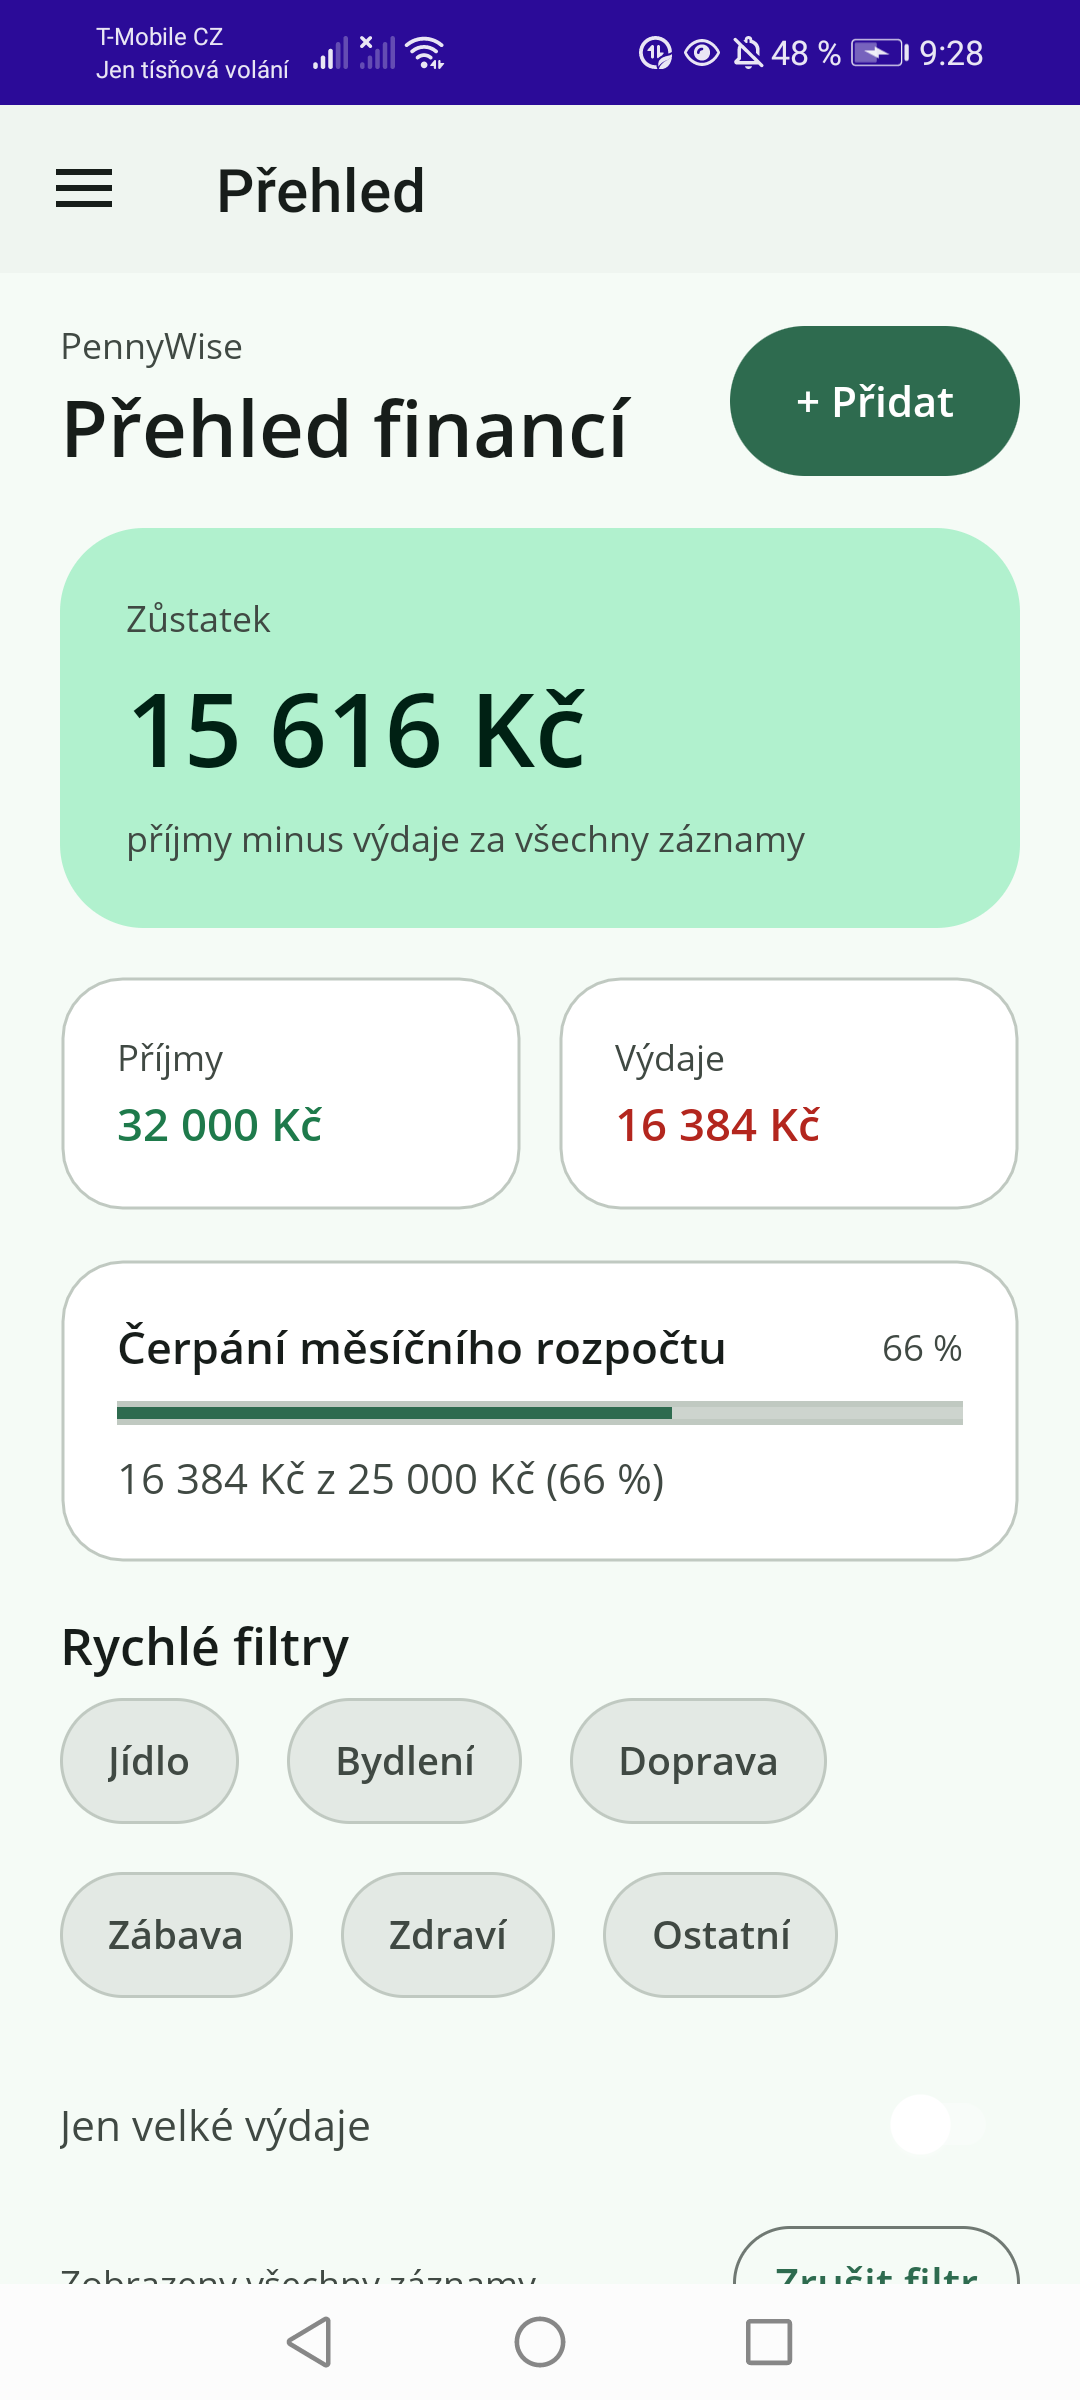
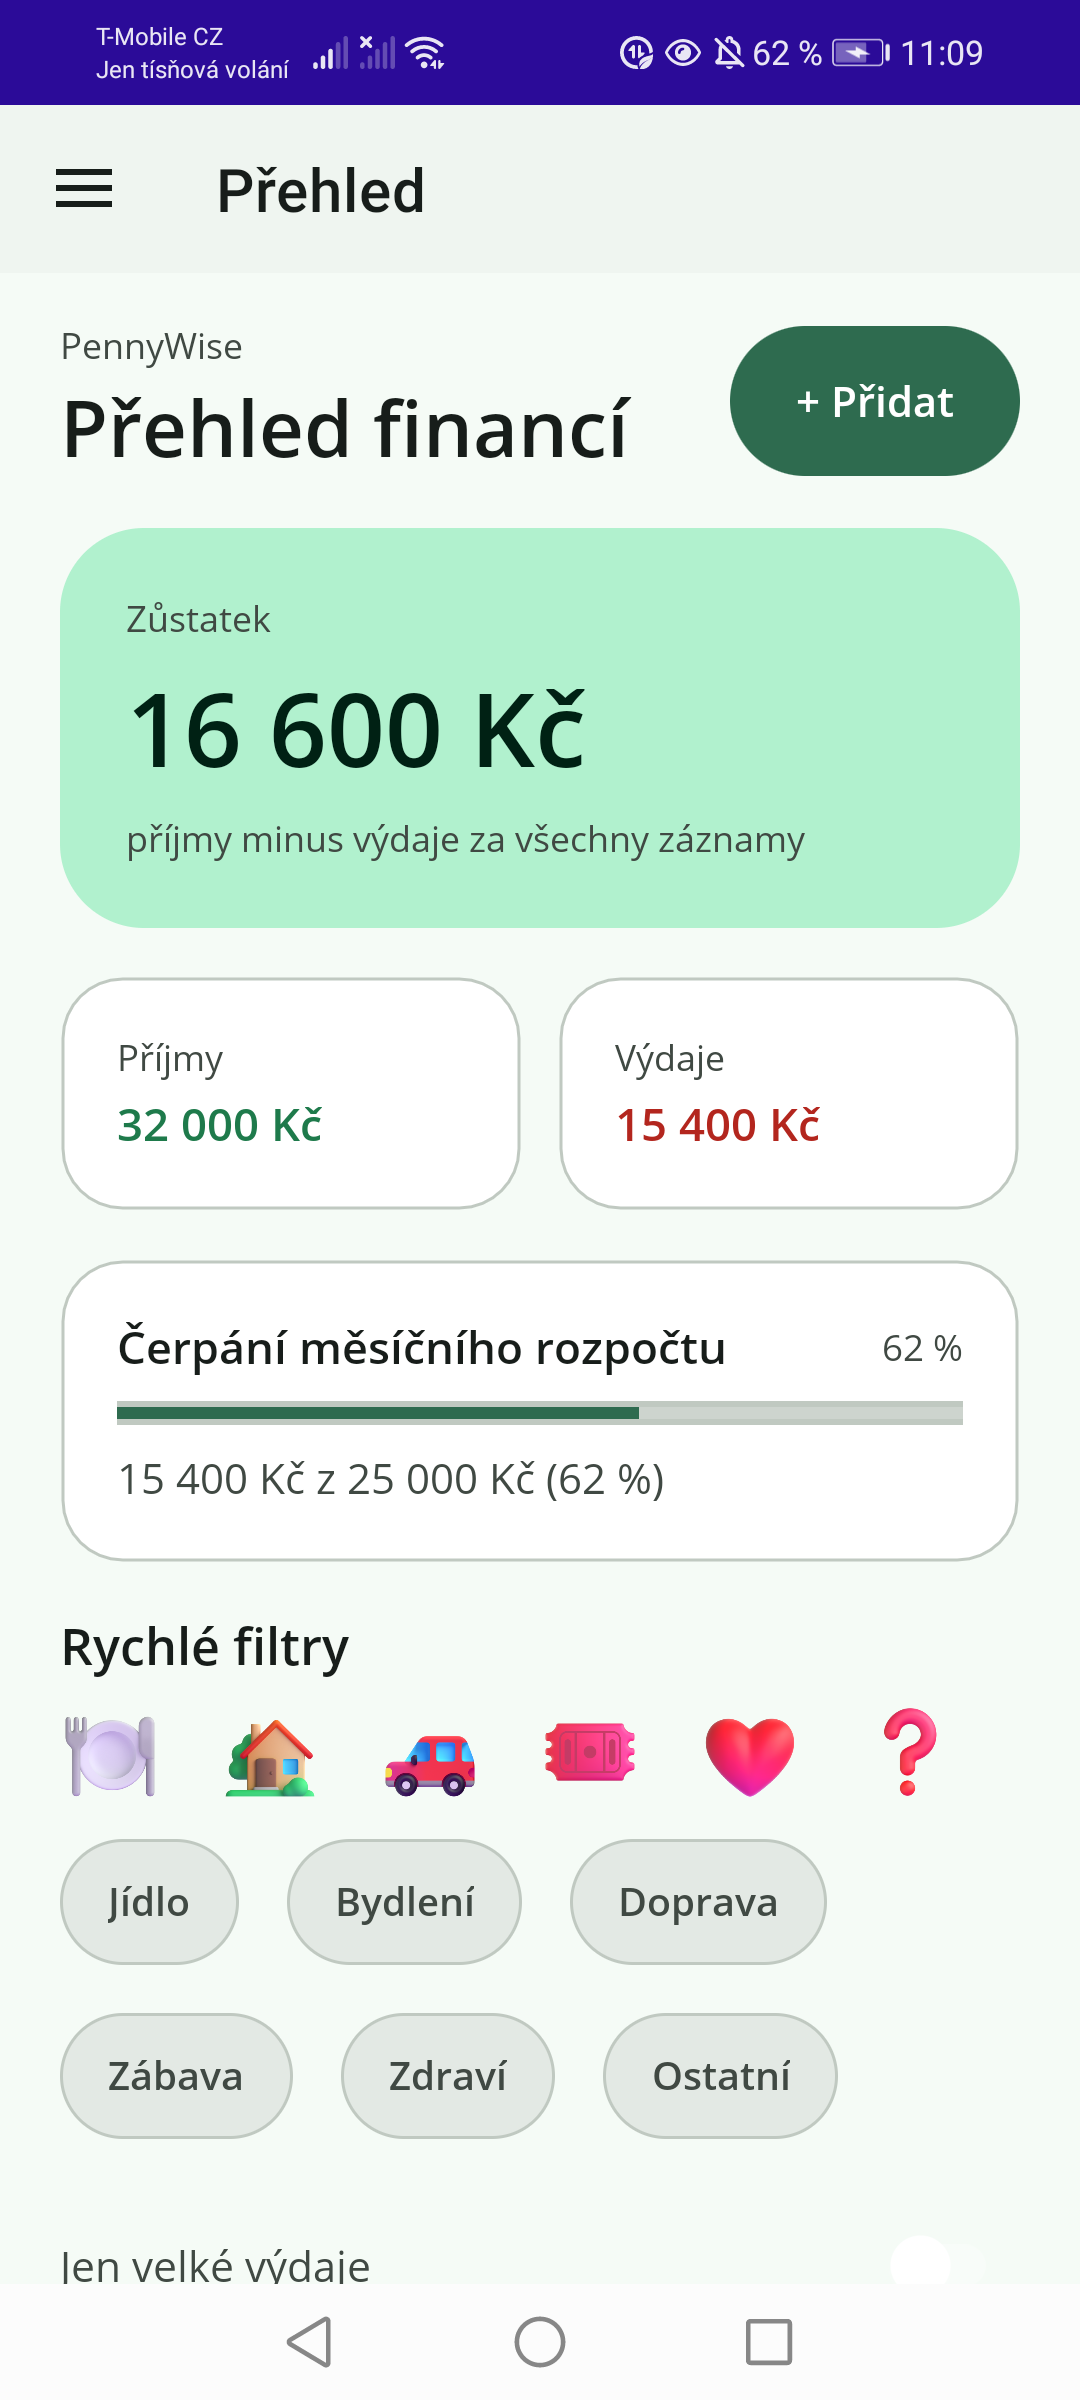
Add category illustrations to dashboard and rename settings page to match assignment

diff --git a/PennyWise/Views/DashboardPage.xaml b/PennyWise/Views/DashboardPage.xaml
@@ -77,6 +77,15 @@
                 <VerticalStackLayout Spacing="10">
                     <Label Text="Rychlé filtry" Style="{StaticResource SectionTitle}" />
 
+                    <!-- Category artwork also appears here, so the illustrations are
+                         the visual anchor for the filters. -->
+                    <FlexLayout
+                        x:Name="CategoryArtFlex"
+                        Direction="Row"
+                        Wrap="Wrap"
+                        JustifyContent="Start"
+                        AlignItems="Center" />
+
                     <FlexLayout
                         x:Name="FilterFlex"
                         Direction="Row"
@@ -118,17 +127,15 @@
                             <Border Style="{StaticResource CardBorder}" Padding="14">
                                 <Grid ColumnDefinitions="Auto,*,Auto" ColumnSpacing="12">
                                     <Border
-                                        Style="{StaticResource BadgeBorder}"
-                                        WidthRequest="42"
-                                        HeightRequest="42"
-                                        Padding="0"
-                                        VerticalOptions="Center"
-                                        BackgroundColor="{StaticResource SurfaceContainerHigh}">
-                                        <Label
-                                            Text="{Binding Initials}"
-                                            Style="{StaticResource BadgeLabel}"
-                                            TextColor="{StaticResource OnSurface}"
-                                            FontSize="14"
+                                        Style="{StaticResource IconTileBorder}"
+                                        WidthRequest="44"
+                                        HeightRequest="44"
+                                        VerticalOptions="Center">
+                                        <Image
+                                            Source="{Binding IconSource}"
+                                            Aspect="AspectFit"
+                                            WidthRequest="34"
+                                            HeightRequest="34"
                                             HorizontalOptions="Center"
                                             VerticalOptions="Center" />
                                     </Border>
@@ -166,10 +173,18 @@
                 <Border
                     Style="{StaticResource MutedBackground}"
                     IsVisible="{Binding HasTransactions, Converter={StaticResource InverseBool}}">
-                    <Label
-                        Text="Pro tento filtr nejsou žádné záznamy."
-                        Style="{StaticResource BodyMutedLabel}"
-                        HorizontalTextAlignment="Center" />
+                    <VerticalStackLayout Spacing="10">
+                        <Image
+                            Source="red_question_mark_3d"
+                            Aspect="AspectFit"
+                            WidthRequest="72"
+                            HeightRequest="72"
+                            HorizontalOptions="Center" />
+                        <Label
+                            Text="Pro tento filtr nejsou žádné záznamy."
+                            Style="{StaticResource BodyMutedLabel}"
+                            HorizontalTextAlignment="Center" />
+                    </VerticalStackLayout>
                 </Border>
 
             </VerticalStackLayout>

diff --git a/PennyWise/Resources/Styles/Styles.xaml b/PennyWise/Resources/Styles/Styles.xaml
@@ -283,6 +283,14 @@
         <Setter Property="Padding" Value="14,2" />
     </Style>
 
+    <Style x:Key="IconTileBorder" TargetType="Border">
+        <Setter Property="BackgroundColor" Value="{DynamicResource SurfaceContainerHigh}" />
+        <Setter Property="Stroke" Value="Transparent" />
+        <Setter Property="StrokeThickness" Value="0" />
+        <Setter Property="StrokeShape" Value="RoundRectangle 14" />
+        <Setter Property="Padding" Value="4" />
+    </Style>
+
     <Style x:Key="BadgeBorder" TargetType="Border">
         <Setter Property="BackgroundColor" Value="{DynamicResource SecondaryContainer}" />
         <Setter Property="Stroke" Value="Transparent" />

diff --git a/PennyWise/Views/Settings.xaml b/PennyWise/Views/Settings.xaml
@@ -1,6 +1,6 @@
 <?xml version="1.0" encoding="utf-8" ?>
 <ContentPage
-    x:Class="PennyWise.Views.SettingsPage"
+    x:Class="PennyWise.Views.Settings"
     xmlns="http://schemas.microsoft.com/dotnet/2021/maui"
     xmlns:x="http://schemas.microsoft.com/winfx/2009/xaml"
     xmlns:vm="clr-namespace:PennyWise.ViewModels"

diff --git a/PennyWise/AppShell.xaml b/PennyWise/AppShell.xaml
@@ -33,7 +33,7 @@
         <ShellContent
             Title="Nastavení"
             Route="settings"
-            ContentTemplate="{DataTemplate views:SettingsPage}" />
+            ContentTemplate="{DataTemplate views:Settings}" />
     </FlyoutItem>
 
     <FlyoutItem Title="JSON data" Route="json">

diff --git a/PennyWise/Services/CategoryArt.cs b/PennyWise/Services/CategoryArt.cs
@@ -1,0 +1,39 @@
+using PennyWise.Models;
+
+namespace PennyWise.Services;
+
+/// <summary>
+/// Maps a category to its illustration in Resources/Images. MAUI lowercases and
+/// sanitises resource names, so the identifiers used here are the same as the
+/// file names without the extension.
+/// </summary>
+public static class CategoryArt
+{
+    public const string Food = "fork_and_knife_with_plate_3d";
+    public const string Housing = "house_with_garden_3d";
+    public const string Transport = "automobile_3d";
+    public const string Fun = "admission_tickets_3d";
+    public const string Health = "red_heart_3d";
+    public const string Income = "money_bag_3d";
+    public const string Other = "red_question_mark_3d";
+
+    public static string For(Category category) => category switch
+    {
+        Category.Food => Food,
+        Category.Housing => Housing,
+        Category.Transport => Transport,
+        Category.Fun => Fun,
+        Category.Health => Health,
+        Category.Income => Income,
+        _ => Other,
+    };
+
+    /// <summary>Artwork for a Czech category label (used by the filter chips).</summary>
+    public static string ForLabel(string label)
+    {
+        var category = Enum.GetValues<Category>()
+            .FirstOrDefault(c => c.ToCzechLabel() == label);
+
+        return For(category);
+    }
+}

diff --git a/PennyWise/Views/DashboardPage.xaml.cs b/PennyWise/Views/DashboardPage.xaml.cs
@@ -12,6 +12,7 @@ public partial class DashboardPage : ContentPage
         InitializeComponent();
         BindingContext = _viewModel = viewModel;
 
+        BuildCategoryArt();
         BuildFilterChips();
         _viewModel.PropertyChanged += OnViewModelPropertyChanged;
     }
@@ -21,6 +22,26 @@ public partial class DashboardPage : ContentPage
         base.OnAppearing();
         await _viewModel.LoadAsync();
         UpdateChipStates();
+    }
+
+    /// <summary>Category illustrations shown above the filter chips.</summary>
+    private void BuildCategoryArt()
+    {
+        foreach (var category in _viewModel.Categories)
+        {
+            var image = new Image
+            {
+                Source = Services.CategoryArt.ForLabel(category),
+                Aspect = Aspect.AspectFit,
+                WidthRequest = 34,
+                HeightRequest = 34,
+                Margin = new Thickness(0, 0, 10, 6),
+                VerticalOptions = LayoutOptions.Center,
+            };
+
+            SemanticProperties.SetDescription(image, category);
+            CategoryArtFlex.Add(image);
+        }
     }
 
     /// <summary>

diff --git a/PennyWise/MauiProgram.cs b/PennyWise/MauiProgram.cs
@@ -37,7 +37,7 @@ public static class MauiProgram
         builder.Services.AddSingleton<DashboardPage>();
         builder.Services.AddTransient<AddTransactionPage>();
         builder.Services.AddTransient<WebPage>();
-        builder.Services.AddTransient<SettingsPage>();
+        builder.Services.AddTransient<Settings>();
         builder.Services.AddTransient<JsonPage>();
         builder.Services.AddSingleton<AppShell>();
 

diff --git a/PennyWise/Views/Settings.xaml.cs b/PennyWise/Views/Settings.xaml.cs
@@ -2,11 +2,11 @@ using PennyWise.ViewModels;
 
 namespace PennyWise.Views;
 
-public partial class SettingsPage : ContentPage
+public partial class Settings : ContentPage
 {
     private readonly SettingsViewModel _viewModel;
 
-    public SettingsPage(SettingsViewModel viewModel)
+    public Settings(SettingsViewModel viewModel)
     {
         InitializeComponent();
         BindingContext = _viewModel = viewModel;

diff --git a/PennyWise/ViewModels/TransactionItem.cs b/PennyWise/ViewModels/TransactionItem.cs
@@ -25,6 +25,9 @@ public class TransactionItem
 
     public string Initials { get; }
 
+    /// <summary>Category artwork shown in the list (MAUI resource name without extension).</summary>
+    public string IconSource => CategoryArt.For(Source.Category);
+
     public string CategoryLabel => Source.CategoryLabel;
 
     public string DateLabel => Source.DateLabel;

diff --git a/README.md b/README.md
@@ -1,7 +1,7 @@
 # PennyWise – správa osobních financí
 
-- **Autor:** `[JMÉNO PŘÍJMENÍ]`
-- **Třída:** `[TŘÍDA]`
+- **Autor:** Andrea Semančinová
+- **Třída:** ITB4
 - **Téma:** Správa osobních financí / transakce
 - **Platforma:** .NET 9, .NET MAUI, cíl Android (testováno na Androidu 10, arm64;
   `SupportedOSPlatformVersion` je 21, takže jde nainstalovat i na starší zařízení)
@@ -39,7 +39,7 @@ obrazovka zobrazuje obsah všech JSON souborů, které aplikace používá.
      se zruší (`e.Cancel = true`) a uživatel dostane `DisplayAlert`
    - tlačítko **Ověřit blokaci** zkusí otevřít `https://www.google.com/` a
      demonstruje blokaci; při chybě načtení se zobrazí offline hláška + „Zkusit znovu“
-4. **Nastavení** (`Views/SettingsPage.xaml`)
+4. **Nastavení** (`Views/Settings.xaml`)
    - tři stavy motivu: Světlý / Tmavý / Podle systému (`AppTheme.Unspecified`)
    - jméno, heslo (`Entry IsPassword`), `Switch` „Zobrazit heslo“
    - živý validátor síly hesla: délka ≥ 8 a výskyt číslic, malých/velkých
@@ -73,7 +73,7 @@ PennyWise/
                  WebViewPolicy, CurrencyFormatter
   ViewModels/    BaseViewModel, DashboardViewModel, AddTransactionViewModel,
                  WebViewModel, SettingsViewModel, JsonViewModel, TransactionItem
-  Views/         DashboardPage, AddTransactionPage, WebPage, SettingsPage, JsonPage
+  Views/         DashboardPage, AddTransactionPage, WebPage, Settings, JsonPage
   Converters/    InverseBooleanConverter
   Resources/     Styles/Colors.xaml, Styles/Styles.xaml,
                  Styles/themes/LightTheme.xaml, Styles/themes/DarkTheme.xaml
@@ -115,7 +115,10 @@ Uložení formuláře navíc drží `IsBusy` a zobrazuje `ActivityIndicator`.
   `SectionTitle`, `CaptionLabel`, `AmountPositive`/`AmountNegative`, `ErrorLabel`.
 - Zakulacené rohy přes `Border` + `StrokeShape="RoundRectangle …"`, žádný `Frame`.
 - Ikony/obrázky: vlastní SVG ikona aplikace a splash (`Resources/AppIcon`,
-  `Resources/Splash`) a kruhové „iniciálové“ odznaky v seznamu transakcí.
+  `Resources/Splash`). V rozhraní se používají 3D ilustrace kategorií
+  (`Resources/Images/*_3d.png`, 256×256, průhledné pozadí): `Image` u každého
+  záznamu v seznamu, proužek ilustrací nad filtry a obrázek v prázdném stavu.
+  Mapování kategorie → obrázek je v `Services/CategoryArt.cs`.
 
 ## Ukládání dat (JSON)
 
@@ -215,13 +218,14 @@ primárně na Release buildu.
 | Release build s AOT (instalace z APK) | všechny obrazovky bez pádu | ✅ |
 | Restart aplikace | data zůstávají z `transactions.json` | ✅ |
 | Otočení na šířku | layout se přizpůsobí, nic se neztratí | ✅ |
+| Ilustrace kategorií | `Image` u záznamů, nad filtry i v prázdném stavu | ✅ |
 
 ## Odevzdání
 
 Možnost B (GitHub): repozitář obsahuje historii commitů, tento README se jménem,
 tématem, popisem a snímky. Do e-mailu učitele:
 
-- **Předmět:** `PRG4 - MAUI Projekt - [JMÉNO PŘÍJMENÍ]`
+- **Předmět:** `PRG4 - MAUI Projekt - Andrea Semančinová`
 - **Obsah:** odkaz na repozitář + krátké průvodní slovo
 
 Záložní ZIP (bez `bin/obj`): `git archive --prefix=PennyWise/ HEAD -o PennyWise.zip`.
